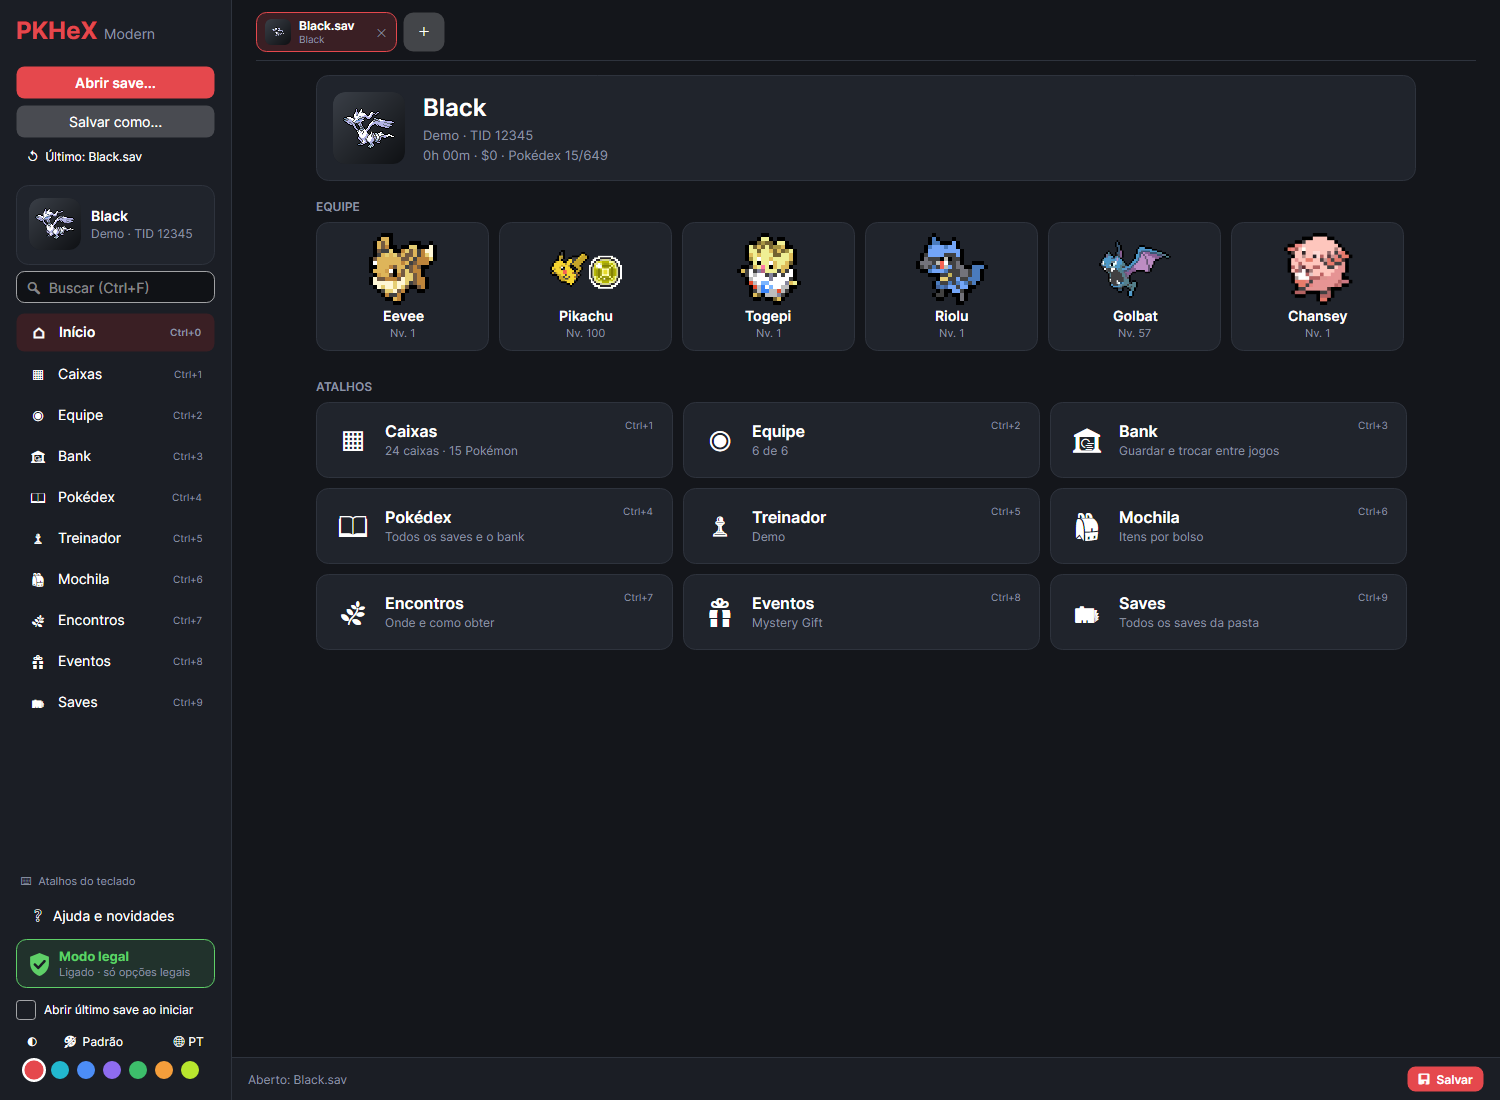
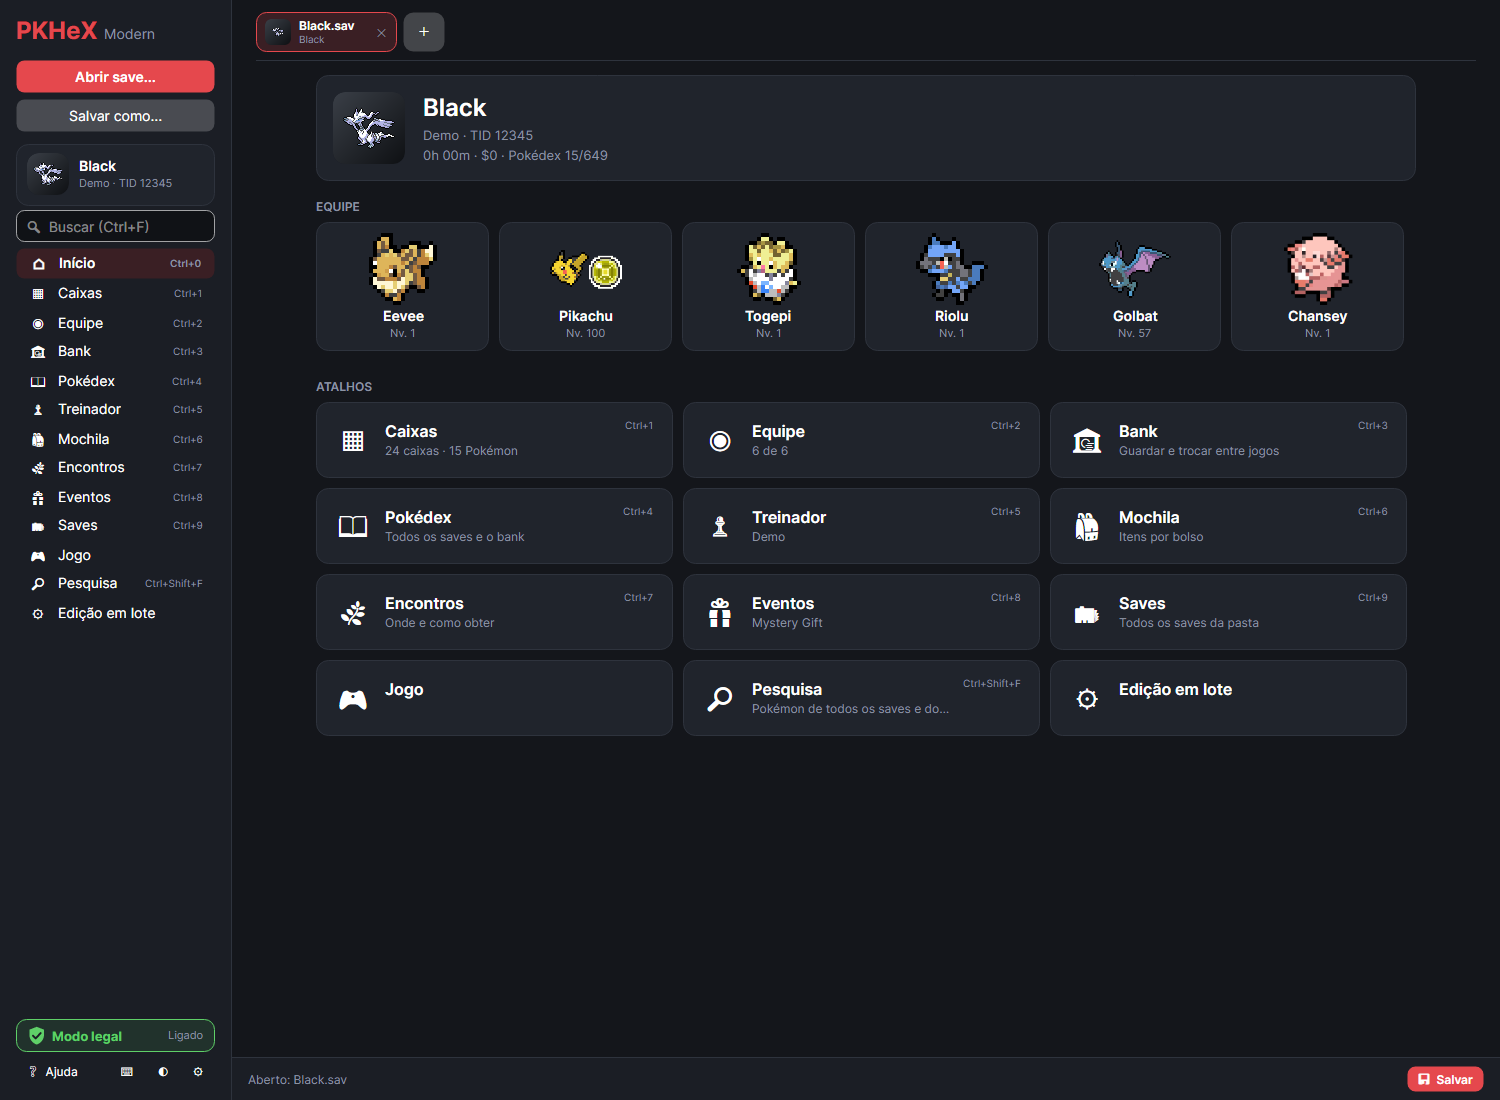
PKHeX.Modern 0.4.2: compact sidebar (pages fit from 720 px), preferences under ⚙, refreshed README screenshots
- Tighter nav items, smaller game card, one-line legal mode card
- Bottom row: Help, keyboard shortcuts, light/dark and a ⚙ flyout with theme, accent color, language and open-last-save
- "Last save" link only without an open save
- Help, README, CHANGELOG, CONTINUAR and en.json updated

diff --git a/PKHeX.Modern/Services/HelpContent.cs b/PKHeX.Modern/Services/HelpContent.cs
@@ -16,7 +16,7 @@ public static class HelpContent
     [
         new("💾", "Saves",
         [
-            new("Abrir um save", "Clique em “Abrir save...”, arraste o arquivo para a janela ou passe o caminho pela linha de comando. “↺ Último” reabre o save anterior; marque “Abrir último save ao iniciar” para fazer isso sozinho.", "Ctrl+O"),
+            new("Abrir um save", "Clique em “Abrir save...”, arraste o arquivo para a janela ou passe o caminho pela linha de comando. Sem save aberto, “↺ Último” reabre o save anterior; para fazer isso sozinho, marque “Abrir último save ao iniciar” no ⚙ da barra lateral.", "Ctrl+O"),
             new("Vários saves em abas", "Cada save aberto vira uma aba no topo, com o selo do jogo e ● quando tem alterações não exportadas. Trocar de aba não perde nada: cada save guarda as alterações, o desfazer/refazer, a caixa e a página. Abrir um save que já está numa aba só troca para ela. “＋” vai para o Save Manager; ✕ fecha a aba (pergunta se houver alterações).", "Ctrl+Tab / Ctrl+W"),
             new("Tela inicial", "Ao abrir um save, o app mostra o Início (⌂ na barra lateral, Ctrl+0): o cartão do jogo com treinador, tempo de jogo, dinheiro e Pokédex; a equipe no topo (clique abre na página Equipe); um atalho grande para cada página, com um resumo; e os saves recentes, que abrem numa aba nova.", "Ctrl+0"),
             new("Save Manager", "Tela inicial e página Saves: lista os saves da pasta escolhida (subpastas como gba, ds, 3ds e switch viram grupos), com treinador, TID/SID, tempo de jogo, dinheiro, capturados e equipe. Busca por jogo, treinador ou arquivo e filtro por geração. Duplo clique abre.", "Ctrl+9"),
@@ -115,8 +115,8 @@ public static class HelpContent
         ]),
         new("⚙", "Preferências",
         [
-            new("Temas e cor", "Na linha de baixo da barra lateral: ◐ troca claro/escuro; 🎨 escolhe o tema completo (Padrão, PSS de X/Y, Pixel de GBA ou Z-A de Lumiose), que muda fundo, painéis, cantos, bordas e fonte na hora e aplica a cor de destaque sugerida pelo tema; as bolinhas trocam a cor de destaque; 🌐 troca o idioma (vale ao reiniciar)."),
-            new("Idioma da interface", "No botão “🌐” (PT/EN) da barra lateral, escolha Português (Brasil) ou English. A preferência fica salva e o app oferece reiniciar para aplicar. Nomes do jogo (espécies, golpes, itens) e os textos de legalidade do PKHeX continuam em inglês nos dois idiomas."),
+            new("Temas e cor", "Na linha de baixo da barra lateral: ◐ troca claro/escuro e ⚙ abre as preferências: o tema completo (Padrão, PSS de X/Y, Pixel de GBA ou Z-A de Lumiose), que muda fundo, painéis, cantos, bordas e fonte na hora e aplica a cor de destaque sugerida pelo tema; as bolinhas da cor de destaque; o idioma (vale ao reiniciar) e “Abrir último save ao iniciar”. ⌨ mostra os atalhos do teclado."),
+            new("Idioma da interface", "No ⚙ da barra lateral, em Idioma, escolha Português (Brasil) ou English. A preferência fica salva e o app oferece reiniciar para aplicar. Nomes do jogo (espécies, golpes, itens) e os textos de legalidade do PKHeX continuam em inglês nos dois idiomas."),
             new("Atualização automática", "Ao abrir, o app verifica se saiu uma versão nova no GitHub. Se saiu, mostra as notas da versão: “Atualizar agora” baixa e instala conferindo o arquivo; “Depois” mantém o aviso para atualizar mais tarde. A oferta automática pode ser desligada em Ajuda › Sobre. A versão nova vale ao clicar em “🔄 Reiniciar” ou na próxima abertura; antes de reiniciar, o app pergunta se houver alterações não salvas e reabre o save. Rodando pelo código, a janela oferece abrir o download no navegador."),
             new("Arquivos do app", "Preferências, backups e bank ficam em %APPDATA%\\PKHeX.Modern. Se algo der errado, os detalhes ficam em crash.log."),
         ]),

diff --git a/PKHeX.Modern/ViewModels/MainViewModel.cs b/PKHeX.Modern/ViewModels/MainViewModel.cs
@@ -312,6 +312,8 @@ public sealed class MainViewModel : ViewModelBase
     public RelayCommand OpenLastCommand { get; }
 
     public bool HasLastSave => ZipSaves.Exists(Settings.LastSavePath);
+    /// <summary>Link "↺ Último" na barra lateral: so sem save aberto (com save, as abas e o Inicio mostram os recentes).</summary>
+    public bool ShowLastSaveLink => HasLastSave && !HasSave;
     public string LastSaveName => HasLastSave ? ZipSaves.DisplayName(Settings.LastSavePath!) : "";
 
     public bool OpenLastSaveOnStartup
@@ -745,7 +747,7 @@ public sealed class MainViewModel : ViewModelBase
         _selectedSlot = null;
         Editor = null;
         _currentPage = Boxes;
-        foreach (var p in (string[])[nameof(IsDirty), nameof(PendingActions), nameof(PendingText), nameof(CurrentPage), nameof(HasSave), nameof(ShowEditorPanel), nameof(GameName), nameof(GameArt), nameof(TrainerInfo), nameof(Pages), nameof(ActiveTab)])
+        foreach (var p in (string[])[nameof(IsDirty), nameof(PendingActions), nameof(PendingText), nameof(CurrentPage), nameof(HasSave), nameof(ShowLastSaveLink), nameof(ShowEditorPanel), nameof(GameName), nameof(GameArt), nameof(TrainerInfo), nameof(Pages), nameof(ActiveTab)])
             Raise(p);
         OnHistoryChanged();
         RaiseHome();
@@ -789,7 +791,7 @@ public sealed class MainViewModel : ViewModelBase
         Boxes.CurrentBox = tab.CurrentBox;
         Home.Load(tab.Sav);
         CurrentPage = tab.LastPage ?? Home; // save recem-aberto cai no Inicio
-        foreach (var p in (string[])[nameof(IsDirty), nameof(PendingActions), nameof(PendingText), nameof(HasSave), nameof(ShowEditorPanel), nameof(GameName), nameof(GameArt), nameof(TrainerInfo), nameof(Pages), nameof(ActiveTab)])
+        foreach (var p in (string[])[nameof(IsDirty), nameof(PendingActions), nameof(PendingText), nameof(HasSave), nameof(ShowLastSaveLink), nameof(ShowEditorPanel), nameof(GameName), nameof(GameArt), nameof(TrainerInfo), nameof(Pages), nameof(ActiveTab)])
             Raise(p);
         IsHelpOpen = false;
         RaiseHome();
@@ -875,6 +877,7 @@ public sealed class MainViewModel : ViewModelBase
             Settings.RecentSaves.RemoveRange(12, Settings.RecentSaves.Count - 12);
         Settings.Save();
         Raise(nameof(HasLastSave));
+        Raise(nameof(ShowLastSaveLink));
         Raise(nameof(LastSaveName));
     }
 

diff --git a/PKHeX.Modern/CONTINUAR.md b/PKHeX.Modern/CONTINUAR.md
@@ -124,17 +124,18 @@ No GitHub, o workflow `.github/workflows/modern-build.yml` publica a cada push n
 - **Pendências:** `MainViewModel.PendingActions` = descrições do `SlotHistory` desde o último salvar/abrir (`_historyAtSave`). O link "● N alterações" abre a lista; "Salvar agora" dispara `SaveRequested`, que a `MainWindow` trata abrindo o seletor de arquivo.
 
 ## Estado atual e próximo passo (depois da 0.4.1 — 2026-10-03)
-- **Onde parou:** release **0.4.1** publicada (tag `modern-v0.4.1`) com a página **Jogo** (flags, valores de evento e recordes). Funções novas vão para "## Próxima versão" no CHANGELOG (crie a seção acima da 0.4.1).
+- **Onde parou:** release **0.4.2** publicada (tag `modern-v0.4.2`) com a barra lateral compacta; antes, a 0.4.1 trouxe a página **Jogo** (flags, valores de evento e recordes). Funções novas vão para "## Próxima versão" no CHANGELOG (crie a seção acima da 0.4.2).
 - **Versão dos saves da Gen 1–3 (`Services/SaveNameHint.cs`):** usa as regras do Core (`SaveLanguage.InferFrom1/2/3`) com mais lugares: nome do arquivo ou da entrada do zip, pasta dentro do zip, nome do zip e pasta do arquivo, nessa ordem; vale a primeira pista coerente com o tipo do save (japonês x ocidental, R/S, FR/LG...). Chamado em `CoreAdapter.LoadSave`, `ZipSaves.TryRead`, `SaveLibrary` e `PokedexService.TryRead`. Sem pista, a versão fica no par (RB, GS, RS, FRLG): `CoreAdapter.GetGameName` mostra "Ruby / Sapphire" e `GameArt` tem `Species2`/`IsDual` (selo duplo, os dois mascotes num `Viewbox` 100×100 em todos os selos). Teste `NameHint`.
 - **Pesquisa (`Services/PokemonDatabase.cs`, `ViewModels/SearchPageViewModel.cs`, template em `App.axaml`):** página no fim da lista (sem Ctrl+número; `Search.Shortcut = "Ctrl+Shift+F"`, tecla tratada em `MainWindow.OnKeyDown`). Lê em segundo plano as abas abertas (a ativa com `_sav`), os saves da pasta (inclusive zip, com cache por data do arquivo) e o bank. `DbEntry` monta os textos uma vez; o filtro roda em memória. `MainViewModel.OpenSearchResultAsync` abre/ativa a aba e chama `GoToSlotAsync`; no bank, troca `Bank.SelectedBank`/`BoxIndex`. **Sem filtro de legalidade de propósito:** a análise depende do save ativo (`ParseSettings`), daria resultado errado nos outros saves. Teste `Search` (saves sintéticos Black/White/W2 em zip + bank).
 - **Saves em branco que gravam:** Gen 5 (B, W, W2) gravam e são reconhecidos; X (Gen 6) grava mas não é reconhecido ao ler; E (Gen 3) e Pt (Gen 4) falham ao gravar.
 - **Edição em lote (`Services/BatchEditor.cs`, `ViewModels/BatchPageViewModel.cs`, template em `App.axaml`):** última página da lista (sem atalho numérico). Usa o motor do Batch Editor do Core (`StringInstructionSet`, `EntityBatchEditor.TryModify`, filtros meta com `SlotCache`; `ScreenStrings` converte nomes como "Pikachu" em índices) mais ações rápidas em C# (`BatchEditor.Actions`; as com `Script` viram instruções do Core, ex.: `.Moves=$suggest`). Tudo roda em cópias; uma mudança só conta se os bytes mudarem (depois de `ResetPartyStats`). Escopos em `MainViewModel.GetBatchTargets` (caixa atual, todas, equipe, caixas+equipe, marcados do save aberto, resultados da Pesquisa do save ativo, relidos do save na hora). `ApplyBatchAsync` pergunta, pula no modo legal quem era legal e ficaria ilegal (`BatchChange.BecomesIllegal`), grava com um único `_history.Record` (Ctrl+Z desfaz o lote) e marca `IsDirty`. Teste `Batch` (save sintético Black): pré-visualização sem gravar, aplicar, desfazer, script com filtro, script inválido, modo legal, cancelar, selecionados vazio e resultados da Pesquisa. Observação: o Pikachu e o Zorua de evento desse save sintético já vêm com Nv. 100 e Vel 31.
 - **Página Jogo (`Services/GameEditors.cs`, `ViewModels/GamePageViewModel.cs`, template em `App.axaml`):** fica depois de Saves (sem atalho, para não mudar o Ctrl+1–9). Flags e valores via `IEventFlagArray`/`IEventWorkArray<ushort|byte>` (SAV2, SAV3/SAV4 `IEventFlag37`, SAV5–7 `IEventFlagProvider37.EventWork`), nomes de `EventLabelCollection` (sufixo do jogo copiado de `EventWorkspace.GetResourceSuffix`, que é privado). Recordes: SAV3 (`Record3.GetItems` + `GetRecord`/`SetRecord`, já com a chave de segurança), SAV5 (`Record5`, **cifrado**: toda leitura/gravação chama `EndAccess()` logo depois, senão o save sai decifrado) e `ITrainerStatRecord` (SAV6/7/8SWSH/8BS com `RecordLists`/`Record8b`). Edita direto no save (como o Treinador) e chama `Changed` → `IsDirty`; não entra no desfazer. Teste `Game` usa cópias dos saves reais Red/Crystal/FireRed/HeartGold/Black/Y/Moon: grava, reabre e confere flag, valor, recorde, recorde vizinho intacto e checksums. **Fora por enquanto:** Gen 1 (`SAV_EventReset1`), Let's Go (`EventWork7b`), BD/SP (`FlagWork8b`), SV e Z-A (blocos) — no WinForms cada um tem editor próprio.
-- **Próximos candidatos:** eventos de Let's Go/BD/SP/Z-A e editores específicos (Hall da Fama, base secreta, Pokéathlon...), compactar a barra lateral (com 13 páginas ela rola em janelas de 900 px), fonte do tema Pixel (Consolas é larga e quebra textos da barra lateral), instalador/assinatura, multiplataforma.
+- **Próximos candidatos:** eventos de Let's Go/BD/SP/Z-A e editores específicos (Hall da Fama, base secreta, Pokéathlon...), fonte do tema Pixel (Consolas é larga e quebra textos da barra lateral), instalador/assinatura, multiplataforma.
+- **Barra lateral compacta (0.4.2):** itens da lista com `Padding 12,5` e `Margin 0,0.5` (`ListBox.nav ListBoxItem` e `Button.navHome`); cabe sem rolar a partir de 720 px de altura (medido no headless: viewport x extent do `ScrollViewer` da lista). Rodapé = modo legal numa linha + linha `❔ Ajuda · ⌨ · ◐ · ⚙`; o ⚙ (`PrefsButton`) é um `Flyout` com tema, cor de destaque, idioma e "Abrir último save ao iniciar". `ShowLastSaveLink` esconde "↺ Último" com save aberto. Textos novos estão no `en.json` (inclusive o tooltip inteiro dos atalhos, que é traduzido como bloco).
 - **Testes que pedem o save de Shield:** `Layout`, `Shiny`, `Forms` e `Fixes` precisam de `saves/shield`. No PC onde a 0.3.9 foi feita ele não existia (foram pulados). Em 2026-10-03, no PC que tem esse arquivo, os quatro passaram com a 0.4.1 (`run-tests.ps1 Layout Shiny Forms Fixes`). Sem o arquivo, o script só pula esses testes.
 - **Feebas:** `GetBeautyEvolutions`/`EvolveByBeauty` usam `LevelUpBeauty` da tabela e exigem Beauty existente; BDSP só oferece Beauty. Z-A exclui Beauty explicitamente (a tabela do Core ainda contém esse método) e atualiza os registros Plus naturais na troca. Por preferência do usuário, troca ignora ausência do item, consumindo-o quando presente; o editor valida uma cópia antes de aceitar no modo legal. Suite sintética `Feebas` cobre Gen 3–9/Z-A, origem de concursos transferida, limiar 169/170, felicidade sem efeito, ovos, Everstone, PID, consumo e ausência de Prism Scale e render.
 - **Evolução por felicidade:** `GetFriendshipEvolutions`/`EvolveByFriendship` oferecem os destinos e ajustam `CurrentFriendship` ao mínimo. Gen 2 precisa normalizar os métodos simplificados da tabela. Gen 6/7 Sylveon exige carinho com o treinador atual; Gen 8+ exige felicidade e golpe Fairy. O editor testa uma cópia no modo legal antes de aceitar. Suite sintética `Friendship`: evoluções legais Gen 2–9, aumento de felicidade, nível, ovos, Everstone, prioridade de Sylveon, carinho, reversão de resultado ilegal e render headless.
-- Última release: **0.4.1** (tag `modern-v0.4.1`: página Jogo com flags e valores de evento da Gen 2–7 e recordes da Gen 3, 5–8). Antes: **0.4.0** (tag `modern-v0.4.0`: Edição em lote, Pesquisa, versão dos saves Gen 1–3 pelo nome e selo duplo). Antes: **0.3.9** (tag `modern-v0.3.9`: tela inicial (Início, Ctrl+0, `ViewModels/HomePageViewModel.cs`), temas completos (`Theme/AppTheme.cs`: cores, raios `Radius*`, `CardBorderThickness`, `AppFontFamily`), Salvar corrigido (dica cobria o botão; mochila pendente aplicada no Salvar); testes `Home` e `SaveFocus`). Antes: **0.3.8** (menu de idiomas, botões de Feebas e felicidade). Anterior: **0.3.7** (tag `modern-v0.3.7`), branch `modern-ui`. Inclui layout das caixas, Save Manager, notas antes de atualizar, importação Mystery Gift, correção ao salvar, barra contextual e evoluções por felicidade/Beauty. As notas ficam em CHANGELOG e na release do GitHub.
+- Última release: **0.4.2** (tag `modern-v0.4.2`: barra lateral compacta, preferências no ⚙, capturas do README regeneradas). Antes: **0.4.1** (tag `modern-v0.4.1`: página Jogo com flags e valores de evento da Gen 2–7 e recordes da Gen 3, 5–8). Antes: **0.4.0** (tag `modern-v0.4.0`: Edição em lote, Pesquisa, versão dos saves Gen 1–3 pelo nome e selo duplo). Antes: **0.3.9** (tag `modern-v0.3.9`: tela inicial (Início, Ctrl+0, `ViewModels/HomePageViewModel.cs`), temas completos (`Theme/AppTheme.cs`: cores, raios `Radius*`, `CardBorderThickness`, `AppFontFamily`), Salvar corrigido (dica cobria o botão; mochila pendente aplicada no Salvar); testes `Home` e `SaveFocus`). Antes: **0.3.8** (menu de idiomas, botões de Feebas e felicidade). Anterior: **0.3.7** (tag `modern-v0.3.7`), branch `modern-ui`. Inclui layout das caixas, Save Manager, notas antes de atualizar, importação Mystery Gift, correção ao salvar, barra contextual e evoluções por felicidade/Beauty. As notas ficam em CHANGELOG e na release do GitHub.
 - **Capturas públicas:** `dotnet run -c Release --project Tools/PKHeX.Modern.Tests/Docs -- PKHeX.Modern/docs` regenera todos os prints do README com saves sintéticos; não usa saves pessoais nem captura o desktop.
 - **Validação da 0.3.7:** todas as 12 suítes de `run-tests.ps1` passaram, incluindo as seis novas (`Layout`, `SaveManager`, `Updates`, `SaveAndGifts`, `Friendship`, `Feebas`). Capturas de documentação regeneradas com o projeto `Docs`. No outro PC, use `git pull origin modern-ui`; os saves reais de teste continuam fora do Git.
 - **Fluxo de release:** subir `<Version>` no csproj; trocar "## Próxima versão" no CHANGELOG por "## X.Y.Z — data"; atualizar a linha acima; commit e push; `git tag modern-vX.Y.Z && git push origin modern-vX.Y.Z` (o CI publica o zip em ~3 min: `gh run watch`); `gh release edit modern-vX.Y.Z --latest --title "PKHeX Modern X.Y.Z" --notes-file notas.md` com as notas em PT-BR (modelo: o texto da release anterior, `gh release view modern-v0.3.6`). As notas começam dizendo como atualizar (atualização automática a partir da 0.3.0; Reiniciar funciona a partir da 0.3.5).

diff --git a/PKHeX.Modern/README.md b/PKHeX.Modern/README.md
@@ -22,7 +22,7 @@ Ela é construída **por cima** do `PKHeX.Core`, sem alterar os projetos origina
 | ![Fitas e memórias](docs/ribbons.png) | ![Evolução por beleza](docs/beauty.png) |
 | **Evolução por felicidade** | **Layout compacto** |
 | ![Evolução por felicidade](docs/friendship.png) | ![Layout compacto](docs/compact.png) |
-| **Interface em inglês (🌐 Idioma)** | **Tema PSS (X/Y)** |
+| **Interface em inglês (⚙ › Idioma)** | **Tema PSS (X/Y)** |
 | ![Interface em inglês](docs/english.png) | ![Tema PSS](docs/theme_pss.png) |
 | **Tema Pixel (GBA)** | **Tema Pixel no modo claro** |
 | ![Tema Pixel](docs/theme_pixel.png) | ![Tema Pixel claro](docs/theme_pixel_light.png) |
@@ -109,8 +109,8 @@ Baixe o `PKHeX.Modern-win-x64.zip` da [versão mais recente](https://github.com/
 **Outros**
 - Treinador (nome, TID/SID, dinheiro, tempo de jogo) e **Mochila com o ícone de cada item**; ao passar o mouse, a descrição em português e onde conseguir o item (dados do AllGenWiki).
 - **Início** (⌂, Ctrl+0): ao abrir um save, cartão do jogo, a equipe no topo, atalhos grandes para cada página e os saves recentes.
-- **Temas completos** (🎨): Padrão, PSS (X/Y), Pixel (GBA) e Z-A (Lumiose), cada um em claro e escuro, mudando fundo, painéis, cantos, bordas e fonte na hora; mais a **cor de destaque** configurável.
-- **Idioma da interface** (“🌐 Idioma” na barra lateral): Português (Brasil), o padrão, ou English. Vale ao reiniciar; o app oferece reiniciar na hora.
+- **Temas completos** (⚙ na barra lateral): Padrão, PSS (X/Y), Pixel (GBA) e Z-A (Lumiose), cada um em claro e escuro, mudando fundo, painéis, cantos, bordas e fonte na hora; mais a **cor de destaque** configurável.
+- **Idioma da interface** (⚙ na barra lateral, em Idioma): Português (Brasil), o padrão, ou English. Vale ao reiniciar; o app oferece reiniciar na hora.
 - Atalhos: Q/E trocam de página, Ctrl+1–9 vão direto, Esc volta, Ctrl+O abre.
 
 ### Conheça também: AllGenWiki

diff --git a/PKHeX.Modern/CHANGELOG.md b/PKHeX.Modern/CHANGELOG.md
@@ -6,6 +6,13 @@ Ao adicionar uma função, anote em "Próxima versão"; na release, troque o tí
 Formato: "## versão — data", "### seção", "- item".
 -->
 
+## 0.4.2 — 2026-10-03
+
+### 🧭 Barra lateral
+- **Mais compacta**: as 13 páginas cabem sem rolar na janela padrão (e a partir de 720 px de altura). Os itens da lista ficaram mais baixos, o cartão do jogo menor e o modo legal virou uma linha só.
+- **Preferências no ⚙**: tema, cor de destaque, idioma e “Abrir último save ao iniciar” ficam no botão ⚙ da linha de baixo, ao lado de ❔ Ajuda, ⌨ (atalhos do teclado) e ◐ (claro/escuro).
+- “↺ Último” aparece só sem save aberto (com um save aberto, as abas e o Início já mostram os recentes).
+
 ## 0.4.1 — 2026-10-03
 
 ### 🎮 Editores por jogo
